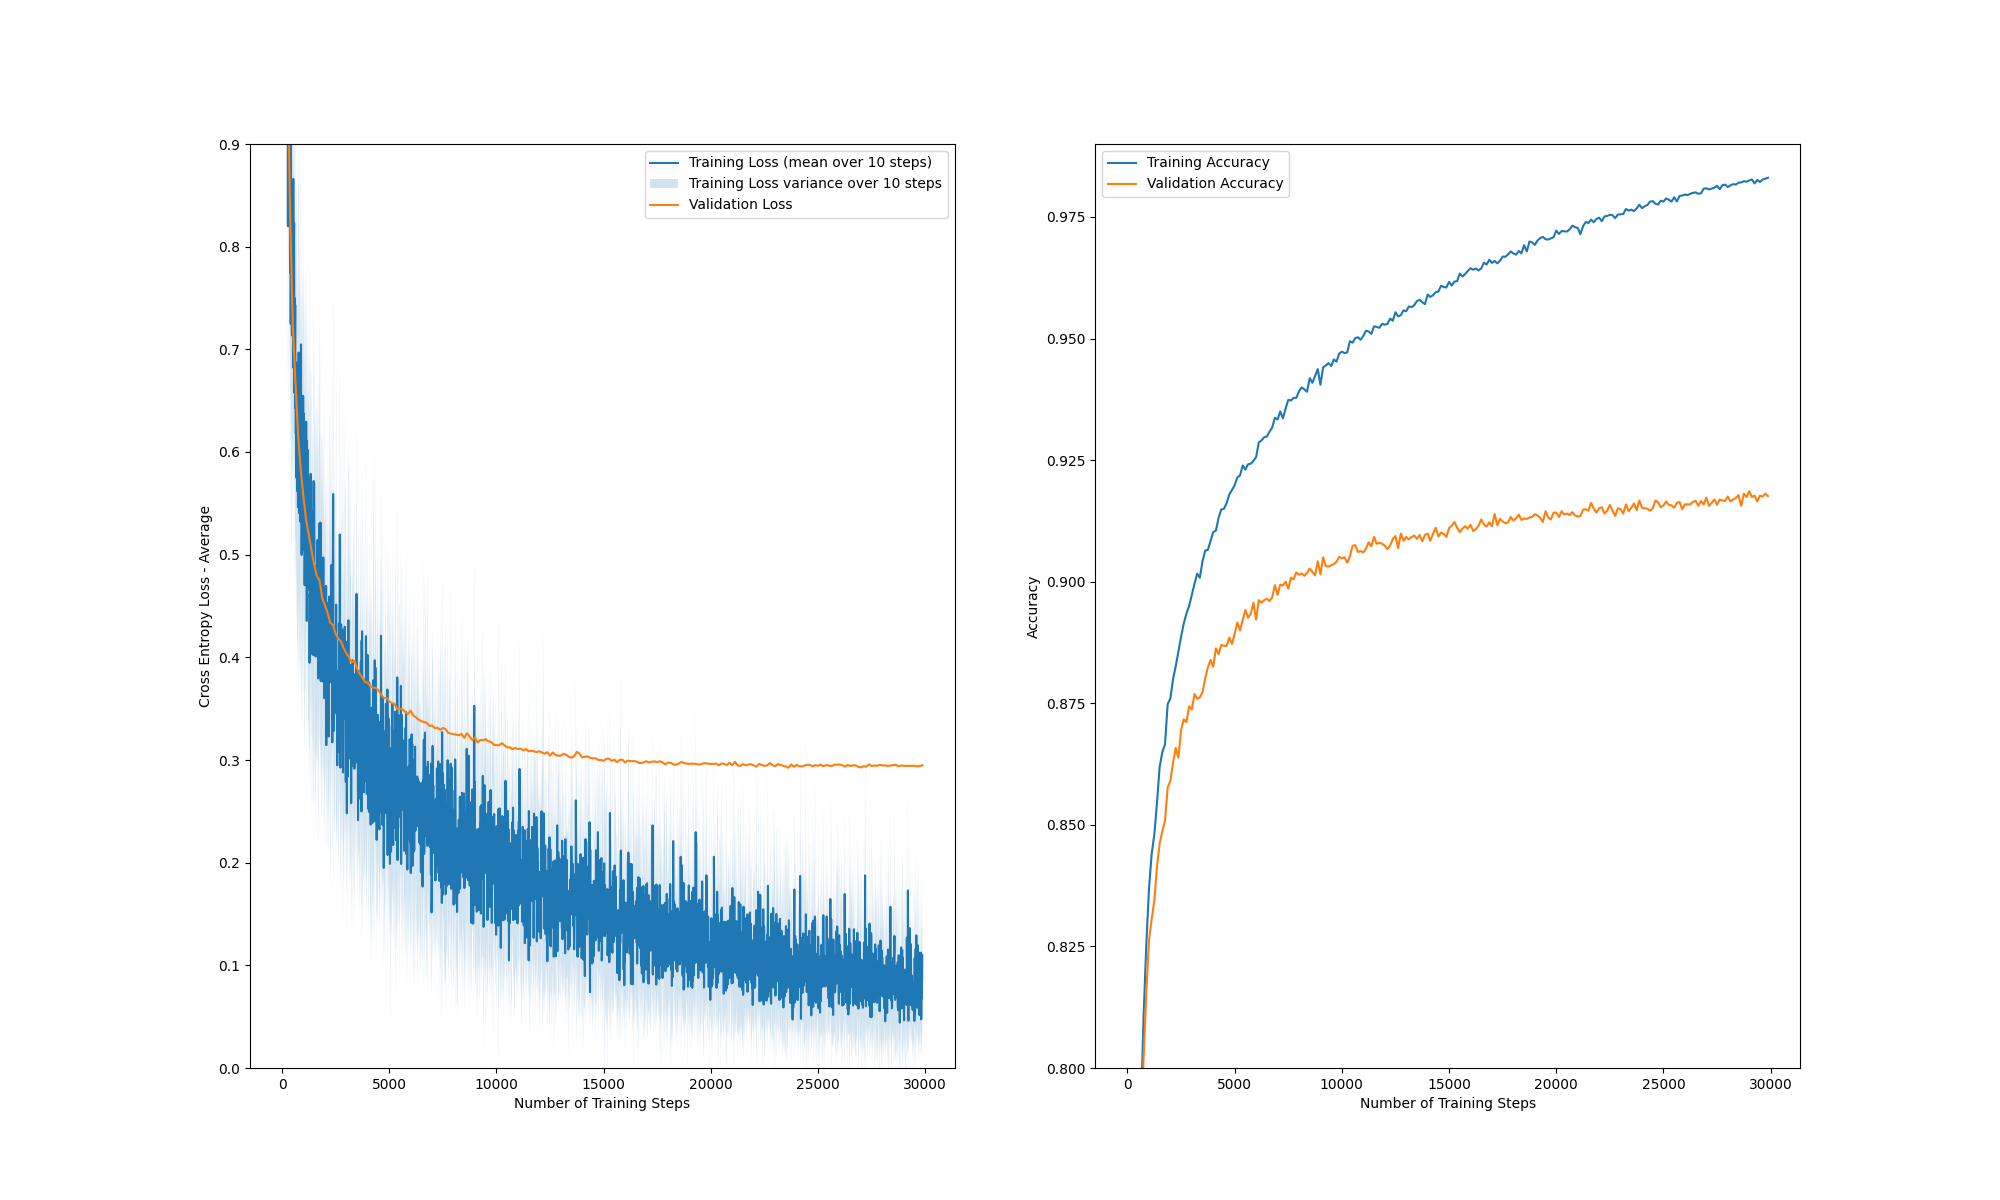
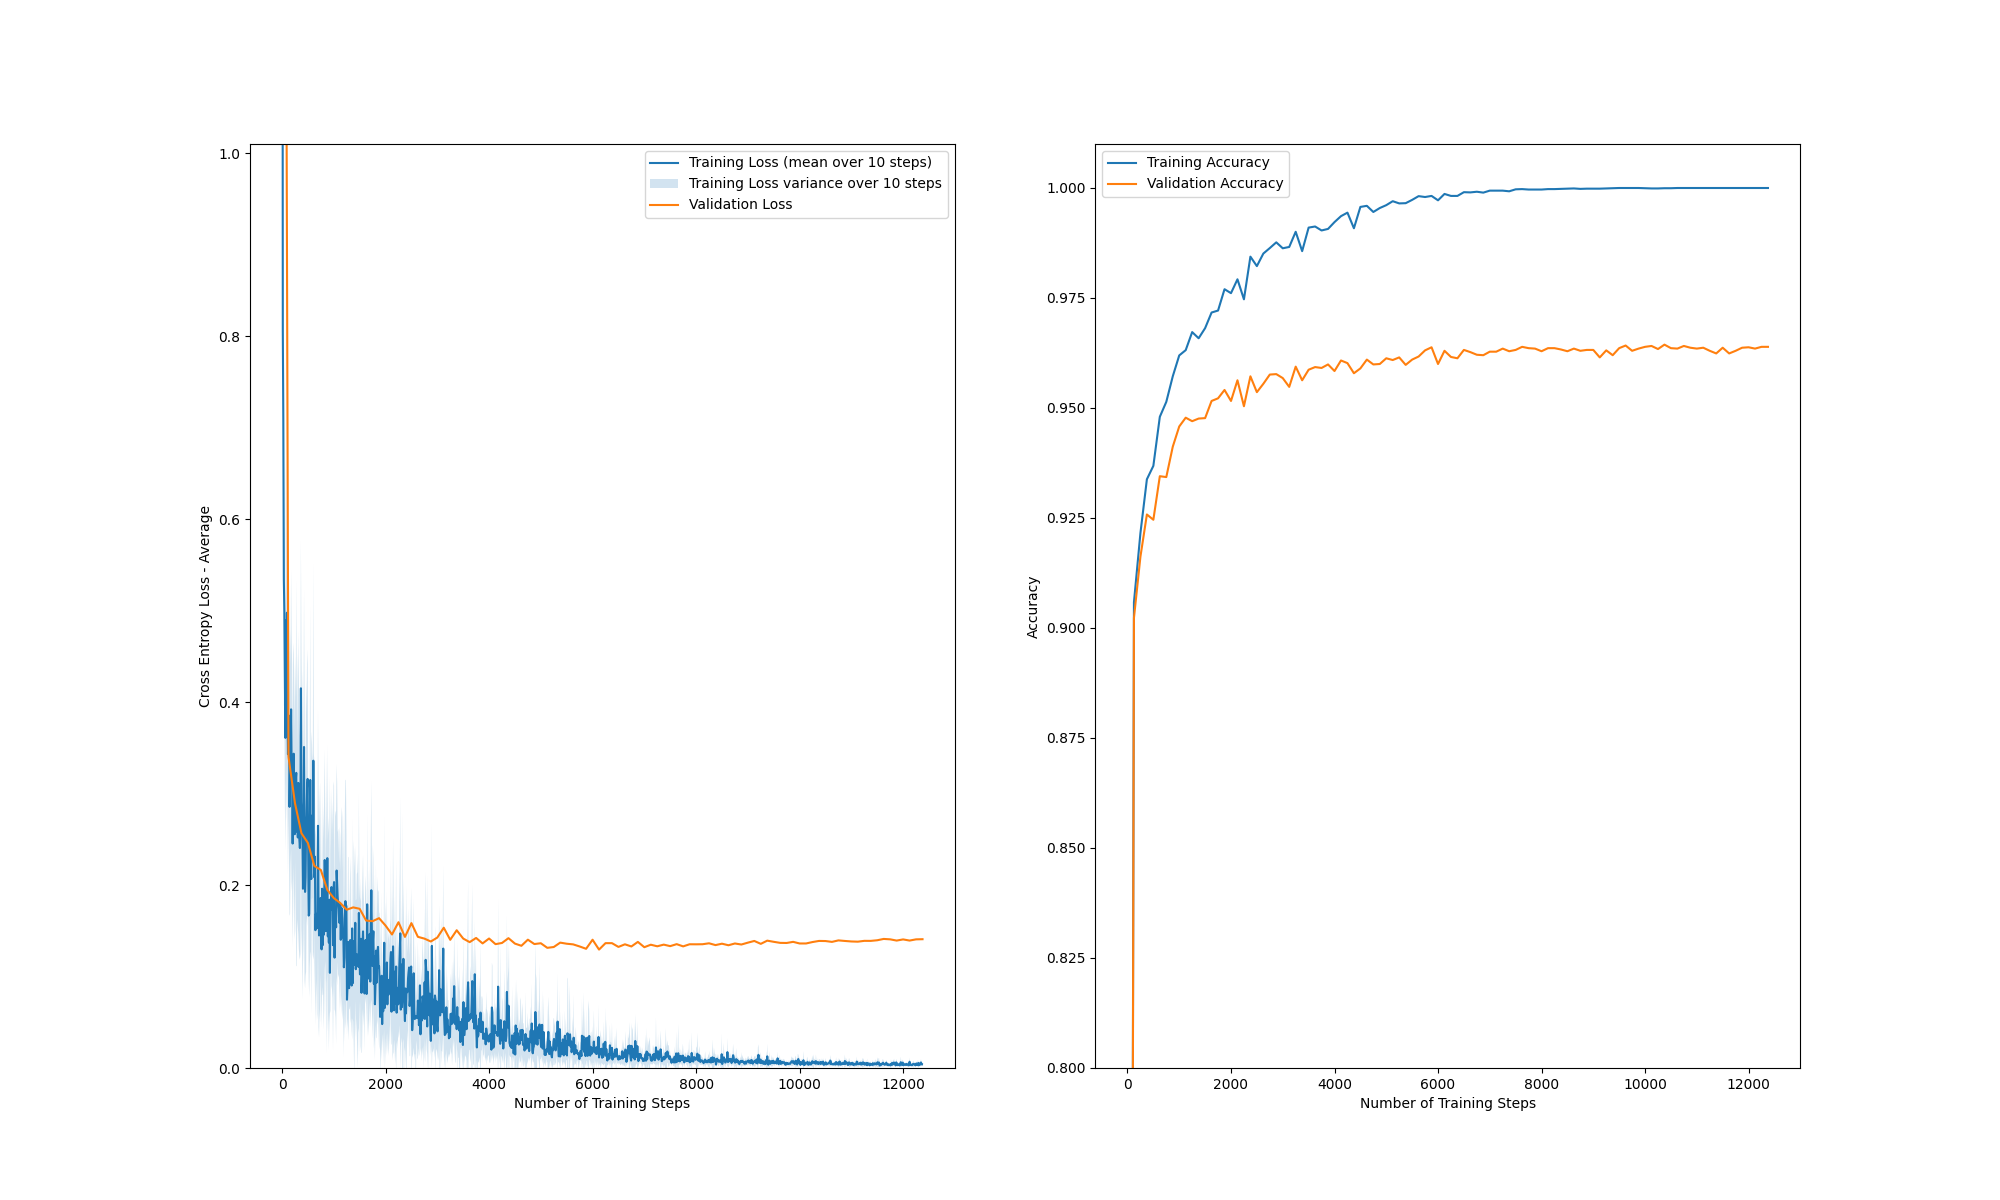
gjorde 3b

diff --git a/assignment2/task2a.py b/assignment2/task2a.py
@@ -39,12 +39,18 @@ def cross_entropy_loss(targets: np.ndarray, outputs: np.ndarray):
     return Cn.mean()
     #raise NotImplementedError
 
-def sigmoid(X):
-    return 1 / (1 + np.exp(-X))
+def sigmoid(X, use_improved_sigmoid):
+    if use_improved_sigmoid:
+        return(1.7159*np.tanh(2/3*X))
+    else:
+        return 1 / (1 + np.exp(-X))
 
-def sigmoid_derivative(X):
-    sig = sigmoid(X)
-    return sig * (1 - sig)
+def sigmoid_derivative(X, use_improved_sigmoid):
+    if use_improved_sigmoid:
+        return 1.1439 * (-np.tanh(2/3*X)**2 + 1)
+    else:
+        sig = sigmoid(X, False)
+        return sig * (1 - sig)
 
 def softmax(X):
     exp = np.exp(X)
@@ -87,6 +93,14 @@ class SoftmaxModel:
             self.ws.append(w)
             prev = size
         self.grads = [None for i in range(len(self.ws))]
+        print("ws.shape", self.ws[0].shape, self.ws[1].shape)
+        if not use_improved_weight_init:
+            for i in range(len(self.ws)):
+                self.ws[i] = np.random.uniform(-1, 1, self.ws[i].shape)
+        else:
+            for i in range(len(self.ws)):
+                fan_in = self.ws[i].shape[0]
+                self.ws[i] = np.random.normal(loc=0, scale=1/np.sqrt(fan_in), size=self.ws[i].shape)
 
     def forward(self, X: np.ndarray) -> np.ndarray:
         """
@@ -109,7 +123,7 @@ class SoftmaxModel:
         """
 
         self.z_j = X @ self.ws[0]
-        self.a_j = sigmoid(self.z_j)
+        self.a_j = sigmoid(self.z_j, self.use_improved_sigmoid)
         z_k = self.a_j @ self.ws[1] 
         y_output = softmax(z_k)
         #print("aj: ", self.a_j.shape)
@@ -142,7 +156,7 @@ class SoftmaxModel:
 
         self.grads = []
         delta_k = -(targets - outputs)
-        delta_j = sigmoid_derivative(self.z_j) * (delta_k).dot(self.ws[1].T)
+        delta_j = sigmoid_derivative(self.z_j, self.use_improved_sigmoid) * (delta_k).dot(self.ws[1].T)
         self.grads.append(X.T.dot(delta_j) / X.shape[0])
         self.grads.append(self.a_j.T.dot(delta_k) / X.shape[0])
         

diff --git a/assignment2/task2.py b/assignment2/task2.py
@@ -43,9 +43,7 @@ class SoftmaxTrainer(BaseTrainer):
         self.use_momentum = use_momentum
         # Init a history of previous gradients to use for implementing momentum
         self.previous_grads = [np.zeros_like(w) for w in self.model.ws]
-        print("ws.shape", self.model.ws[0].shape, self.model.ws[1].shape)
-        for i in range(len(self.model.ws)):
-            self.model.ws[i] = np.random.uniform(-1, 1, self.model.ws[i].shape)
+        
         #print(self.model.ws)
     def train_step(self, X_batch: np.ndarray, Y_batch: np.ndarray):
         """
@@ -105,8 +103,8 @@ def main():
     shuffle_data=True
 
     # Settings for task 2 and 3. Keep all to false for task 2.
-    use_improved_sigmoid=False
-    use_improved_weight_init=False
+    use_improved_sigmoid=True
+    use_improved_weight_init=True
     use_momentum=False
     use_relu=False
 
@@ -149,7 +147,7 @@ def main():
     # Plot loss for first model (task 2c)
     plt.figure(figsize=(20, 12))
     plt.subplot(1, 2, 1)
-    plt.ylim([0.0, 0.9])
+    plt.ylim([0.0, 1.01])
     utils.plot_loss(train_history["loss"],
                     "Training Loss", npoints_to_average=10)
     utils.plot_loss(val_history["loss"], "Validation Loss")
@@ -158,7 +156,7 @@ def main():
     plt.ylabel("Cross Entropy Loss - Average")
     # Plot accuracy
     plt.subplot(1, 2, 2)
-    plt.ylim([0.8, 0.99])
+    plt.ylim([0.8, 1.01])
     utils.plot_loss(train_history["accuracy"], "Training Accuracy")
     utils.plot_loss(val_history["accuracy"], "Validation Accuracy")
     plt.xlabel("Number of Training Steps")

diff --git a/assignment2/task3.py b/assignment2/task3.py
@@ -71,8 +71,7 @@ def main():
     plt.ylabel("Validation Accuracy")
     plt.legend()
     plt.show()
-        use_improved_weight_init,
-    labels.append(
+
 
 
 if __name__ == "__main__":
